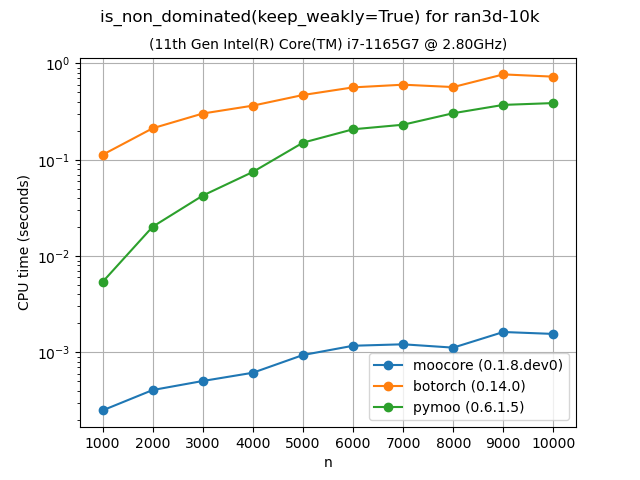
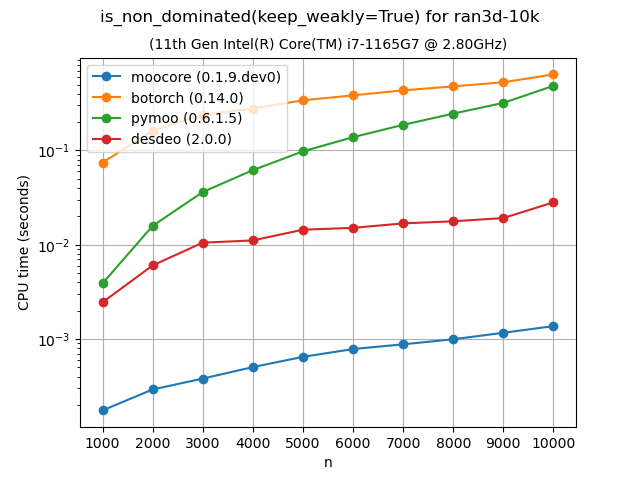
python/ Add DESDEO to the is_nondominated benchmarks.

diff --git a/python/benchmarks/bench_ndom.py b/python/benchmarks/bench_ndom.py
@@ -14,10 +14,14 @@ import matplotlib.pyplot as plt
 
 import torch
 from botorch.utils.multi_objective.pareto import (
-    is_non_dominated as botorch_is_non_dominated,
+    is_non_dominated as botorch_is_nondominated,
 )
 from pymoo.util.nds.non_dominated_sorting import (
     NonDominatedSorting as pymoo_NonDominatedSorting,
+)
+
+from desdeo.tools.non_dominated_sorting import (
+    non_dominated as desdeo_is_nondominated,
 )
 
 # See https://github.com/multi-objective/testsuite/tree/main/data
@@ -30,6 +34,11 @@ files = {
 title = "is_non_dominated(keep_weakly=False)"
 file_prefix = "ndom"
 
+
+def bool2pos(x):
+    return np.nonzero(np.asarray(x))[0]
+
+
 names = files.keys()
 for name in names:
     x = moocore.get_dataset(files[name]["file"])[:, :-1]
@@ -39,60 +48,11 @@ for name in names:
         name=name,
         n=n,
         bench={
-            "moocore": lambda z: np.nonzero(
+            "moocore": lambda z: bool2pos(
                 moocore.is_nondominated(z, maximise=True, keep_weakly=False)
-            )[0],
-            "botorch": lambda z: np.nonzero(
-                np.asarray(botorch_is_non_dominated(z, deduplicate=True))
-            )[0],
-        },
-    )
-
-    values = {}
-    for maxrow in n:
-        z = x[:maxrow, :]
-        for what in bench.keys():
-            if what == "botorch":
-                # Exclude the conversion to torch from the timing.
-                zz = torch.from_numpy(z)
-            else:
-                zz = z
-            values[what] = bench(what, maxrow, zz)
-
-        # Check values
-        for what in bench.keys():
-            if what == "moocore":
-                continue
-            a = values["moocore"]
-            b = values[what]
-            assert np.array_equal(a, b), (
-                f"In {name}, maxrow={maxrow}, {what}={b}  not equal to moocore={a}"
-            )
-
-    del values
-    bench.plots(file_prefix=file_prefix, title=title)
-
-
-title = "is_non_dominated(keep_weakly=True)"
-file_prefix = "wndom"
-
-names = files.keys()
-for name in names:
-    x = moocore.get_dataset(files[name]["file"])[:, :-1]
-    n = get_range(len(x), *files[name]["range"])
-
-    bench = Bench(
-        name=name,
-        n=n,
-        bench={
-            "moocore": lambda z: np.nonzero(
-                moocore.is_nondominated(z, maximise=True, keep_weakly=True)
-            )[0],
-            "botorch": lambda z: np.nonzero(
-                np.asarray(botorch_is_non_dominated(z, deduplicate=False))
-            )[0],
-            "pymoo": lambda z: pymoo_NonDominatedSorting().do(
-                -z, only_non_dominated_front=True
+            ),
+            "botorch": lambda z: bool2pos(
+                botorch_is_nondominated(z, deduplicate=True)
             ),
         },
     )
@@ -114,8 +74,62 @@ for name in names:
                 continue
             a = values["moocore"]
             b = values[what]
-            assert np.allclose(a, b), (
-                f"In {name}, maxrow={maxrow}, {what}={b}  not equal to moocore={a}"
+            np.testing.assert_array_equal(
+                a,
+                b,
+                err_msg=f"In {name}, maxrow={maxrow}, {what}={b}  not equal to moocore={a}",
+            )
+
+    del values
+    bench.plots(file_prefix=file_prefix, title=title)
+
+
+title = "is_non_dominated(keep_weakly=True)"
+file_prefix = "wndom"
+
+names = files.keys()
+for name in names:
+    x = moocore.get_dataset(files[name]["file"])[:, :-1]
+    n = get_range(len(x), *files[name]["range"])
+
+    bench = Bench(
+        name=name,
+        n=n,
+        bench={
+            "moocore": lambda z: bool2pos(
+                moocore.is_nondominated(z, maximise=True, keep_weakly=True)
+            ),
+            "botorch": lambda z: bool2pos(
+                botorch_is_nondominated(z, deduplicate=False)
+            ),
+            "pymoo": lambda z, nds=pymoo_NonDominatedSorting(): nds.do(
+                -z, only_non_dominated_front=True
+            ),
+            "desdeo": lambda z: bool2pos(desdeo_is_nondominated(-z)),
+        },
+    )
+
+    values = {}
+    for maxrow in n:
+        z = x[:maxrow, :]
+        for what in bench.keys():
+            if what == "botorch":
+                # Exclude the conversion to torch from the timing.
+                zz = torch.from_numpy(z)
+            else:
+                zz = z
+            values[what] = bench(what, maxrow, zz)
+
+        # Check values
+        for what in bench.keys():
+            if what == "moocore":
+                continue
+            a = values["moocore"]
+            b = values[what]
+            np.testing.assert_allclose(
+                a,
+                b,
+                err_msg=f"In {name}, maxrow={maxrow}, {what}={b}  not equal to moocore={a}",
             )
 
     del values

diff --git a/python/benchmarks/bench.py b/python/benchmarks/bench.py
@@ -67,6 +67,11 @@ def get_package_version(package):
         case "DEAP_er":
             # Requires version >= 0.2.0
             from deap_er import __version__ as version
+        case "desdeo":
+            # It does not provide __version__ !
+            from importlib.metadata import version as get_version
+
+            version = get_version("desdeo")
         case _:
             raise ValueError(f"unknown package {package}")
 

diff --git a/python/doc/source/index.rst b/python/doc/source/index.rst
@@ -66,7 +66,7 @@ performance measures, performance assessment
 Benchmarks
 ==========
 
-The following plots compare the performance of `moocore`_, `pymoo`_, `BoTorch`_, and `jMetalPy`_. Other optimization packages are not included in the comparison because they are based on these packages so they are **at least as slow** as them. For example `Xopt`_ uses `BoTorch`_, `pysamoo`_ is an extension of `pymoo`_, `DESDEO`_ uses `pymoo`_ internally, and most of the multi-objective functionality of `DEAP`_ is shared by `pymoo`_.  We do not compare with the Bayesian optimization toolbox `trieste`_, because it is much slower than `BoTorch`_ and too slow to run the benchmarks in a reasonable time.
+The following plots compare the performance of `moocore`_, `pymoo`_, `BoTorch`_, and `jMetalPy`_. Other optimization packages are not included in the comparison because they are based on these packages for the functionality already benchmarked, so they are **at least as slow** as them. For example `Xopt`_ uses `BoTorch`_, `pysamoo`_ is an extension of `pymoo`_, `DESDEO`_ already `moocore`_ for hypervolume and other quality metrics, and most of the multi-objective functionality of `DEAP`_ is shared by `pymoo`_.  We do not compare with the Bayesian optimization toolbox `trieste`_, because it is much slower than `BoTorch`_ and too slow to run the benchmarks in a reasonable time.
 
 Not all packages provide the same functionality. For example, `pymoo`_ does not provide the :ref:`epsilon indicator <epsilon_metric>` whereas `jMetalPy`_ does not provide the :ref:`IGD+ indicator <igd_hausdorf>`. `BoTorch`_ provides neither of them.
 
@@ -120,7 +120,7 @@ The following plots compare the accuracy and speed of approximating the hypervol
 Identifying nondominated points
 -------------------------------
 
-The following plots compare the speed of finding nondominated solutions, equivalent to :func:`moocore.is_nondominated`, in 2D and 3D. We test both ``keep_weakly=True`` and ``keep_weakly=False`` (the latter is not supported by `pymoo`_). As the plots show, `moocore`_ is more than 100 times faster in 2D and 3D than the other packages.
+The following plots compare the speed of finding nondominated solutions, equivalent to :func:`moocore.is_nondominated`, in 2D and 3D. We test both ``keep_weakly=True`` and ``keep_weakly=False`` (the latter is not supported by `pymoo`_ nor `DESDEO`_). Interestingly, `DESDEO`_ is significantly faster than `pymoo`_, despite the former using a naive Python implementation jit-compiled by `Numba`_ and the latter using CPython.  Nevertheless, As the plots show, `moocore`_ is 10 times faster than `DESDEO`_ and 100 times faster than the other packages.
 
 |wndom_bench-test2D-200k| |wndom_bench-ran3d-10k|
 
@@ -163,6 +163,7 @@ The following plots compare the speed of computing the :ref:`epsilon indicator  
 .. _pysamoo: https://anyoptimization.com/projects/pysamoo/
 .. _DESDEO: https://desdeo.readthedocs.io/en/latest/
 .. _trieste: https://secondmind-labs.github.io/trieste
+.. _Numba: https://numba.pydata.org/numba-doc/dev/index.html
 
 .. This is not really the index page, that is found in
    _templates/indexcontent.html The toctree content here will be added to the
